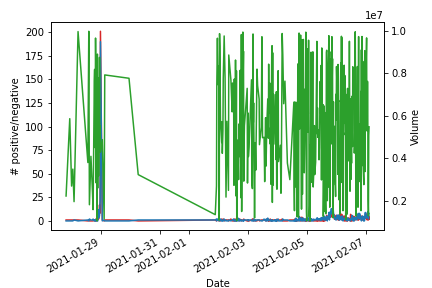
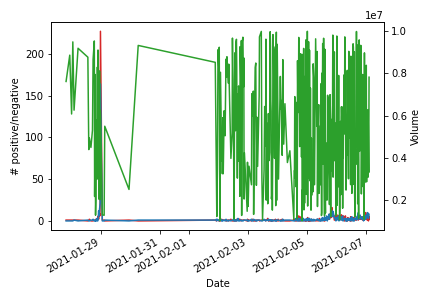
updated jupyer notebook and figure

diff --git a/README.md b/README.md
@@ -144,18 +144,18 @@ print("Naive Bayes classifier model accuracy is:", classify.accuracy(classifier,
 print(classifier.show_most_informative_features(10))
 ```
 
-    Naive Bayes classifier model accuracy is: 0.9956666666666667
+    Naive Bayes classifier model accuracy is: 0.9963333333333333
     Most Informative Features
-                          :( = True           Negati : Positi =   2039.6 : 1.0
-                          :) = True           Positi : Negati =   1685.9 : 1.0
-                    follower = True           Positi : Negati =     35.8 : 1.0
-                         bam = True           Positi : Negati =     19.4 : 1.0
-                         sad = True           Negati : Positi =     18.6 : 1.0
-                        sick = True           Negati : Positi =     17.9 : 1.0
-                         x15 = True           Negati : Positi =     17.9 : 1.0
-                        blog = True           Positi : Negati =     15.3 : 1.0
-                   community = True           Positi : Negati =     14.6 : 1.0
-                     welcome = True           Positi : Negati =     11.7 : 1.0
+                          :( = True           Negati : Positi =   2051.6 : 1.0
+                          :) = True           Positi : Negati =    989.4 : 1.0
+                    follower = True           Positi : Negati =     35.3 : 1.0
+                         sad = True           Negati : Positi =     29.9 : 1.0
+                    followed = True           Negati : Positi =     25.4 : 1.0
+                         bam = True           Positi : Negati =     21.2 : 1.0
+                        glad = True           Positi : Negati =     19.9 : 1.0
+                      arrive = True           Positi : Negati =     18.0 : 1.0
+                   community = True           Positi : Negati =     14.5 : 1.0
+                          aw = True           Negati : Positi =     12.9 : 1.0
     None
 
 
@@ -223,7 +223,7 @@ ratio_pos_neg=tweet_classification.count('Positive')/tweet_classification.count(
 print(f"Ratio positive:negative tweets: {ratio_pos_neg}")
 ```
 
-    Ratio positive:negative tweets: 0.8075855689176689
+    Ratio positive:negative tweets: 0.9717457114026236
 
 
 # 3. Obtain GME stock market data from 28th January 2021 and graph it against GME tweet emotions
@@ -383,23 +383,23 @@ volume_df.head()
   <tbody>
     <tr>
       <th>2021-01-27 00:00:00</th>
-      <td>5533230</td>
+      <td>8610770</td>
     </tr>
     <tr>
       <th>2021-01-27 00:15:00</th>
-      <td>9143938</td>
+      <td>4011928</td>
     </tr>
     <tr>
       <th>2021-01-27 00:30:00</th>
-      <td>9458608</td>
+      <td>6883544</td>
     </tr>
     <tr>
       <th>2021-01-27 00:45:00</th>
-      <td>6836897</td>
+      <td>7400409</td>
     </tr>
     <tr>
       <th>2021-01-27 01:00:00</th>
-      <td>9336517</td>
+      <td>8627695</td>
     </tr>
   </tbody>
 </table>
@@ -531,35 +531,35 @@ mergedDf.head()
       <td>2021-01-27 19:45:00</td>
       <td>1</td>
       <td>0</td>
-      <td>1958617</td>
+      <td>7614635</td>
     </tr>
     <tr>
       <th>1</th>
       <td>2021-01-27 22:45:00</td>
       <td>1</td>
       <td>0</td>
-      <td>4855922</td>
+      <td>8860587</td>
     </tr>
     <tr>
       <th>2</th>
       <td>2021-01-28 00:15:00</td>
       <td>1</td>
       <td>0</td>
-      <td>5354826</td>
+      <td>6075395</td>
     </tr>
     <tr>
       <th>3</th>
       <td>2021-01-28 01:15:00</td>
       <td>1</td>
       <td>0</td>
-      <td>1688234</td>
+      <td>9487930</td>
     </tr>
     <tr>
       <th>4</th>
       <td>2021-01-28 02:15:00</td>
       <td>1</td>
       <td>1</td>
-      <td>8850780</td>
+      <td>6255715</td>
     </tr>
   </tbody>
 </table>
@@ -617,11 +617,11 @@ ax2.plot(mergedDf["time"], mergedDf["volume"], color='tab:green')
 
 fig.tight_layout() # otherwise the right y-label is slightly clipped
 fig.autofmt_xdate() # automatically rotates x axis labels
-plt.show()
+fig.savefig("figure.png", facecolor='white')
 ```
 
 
     
-![image](figure.png))
+![image](figure.png)
     
 
